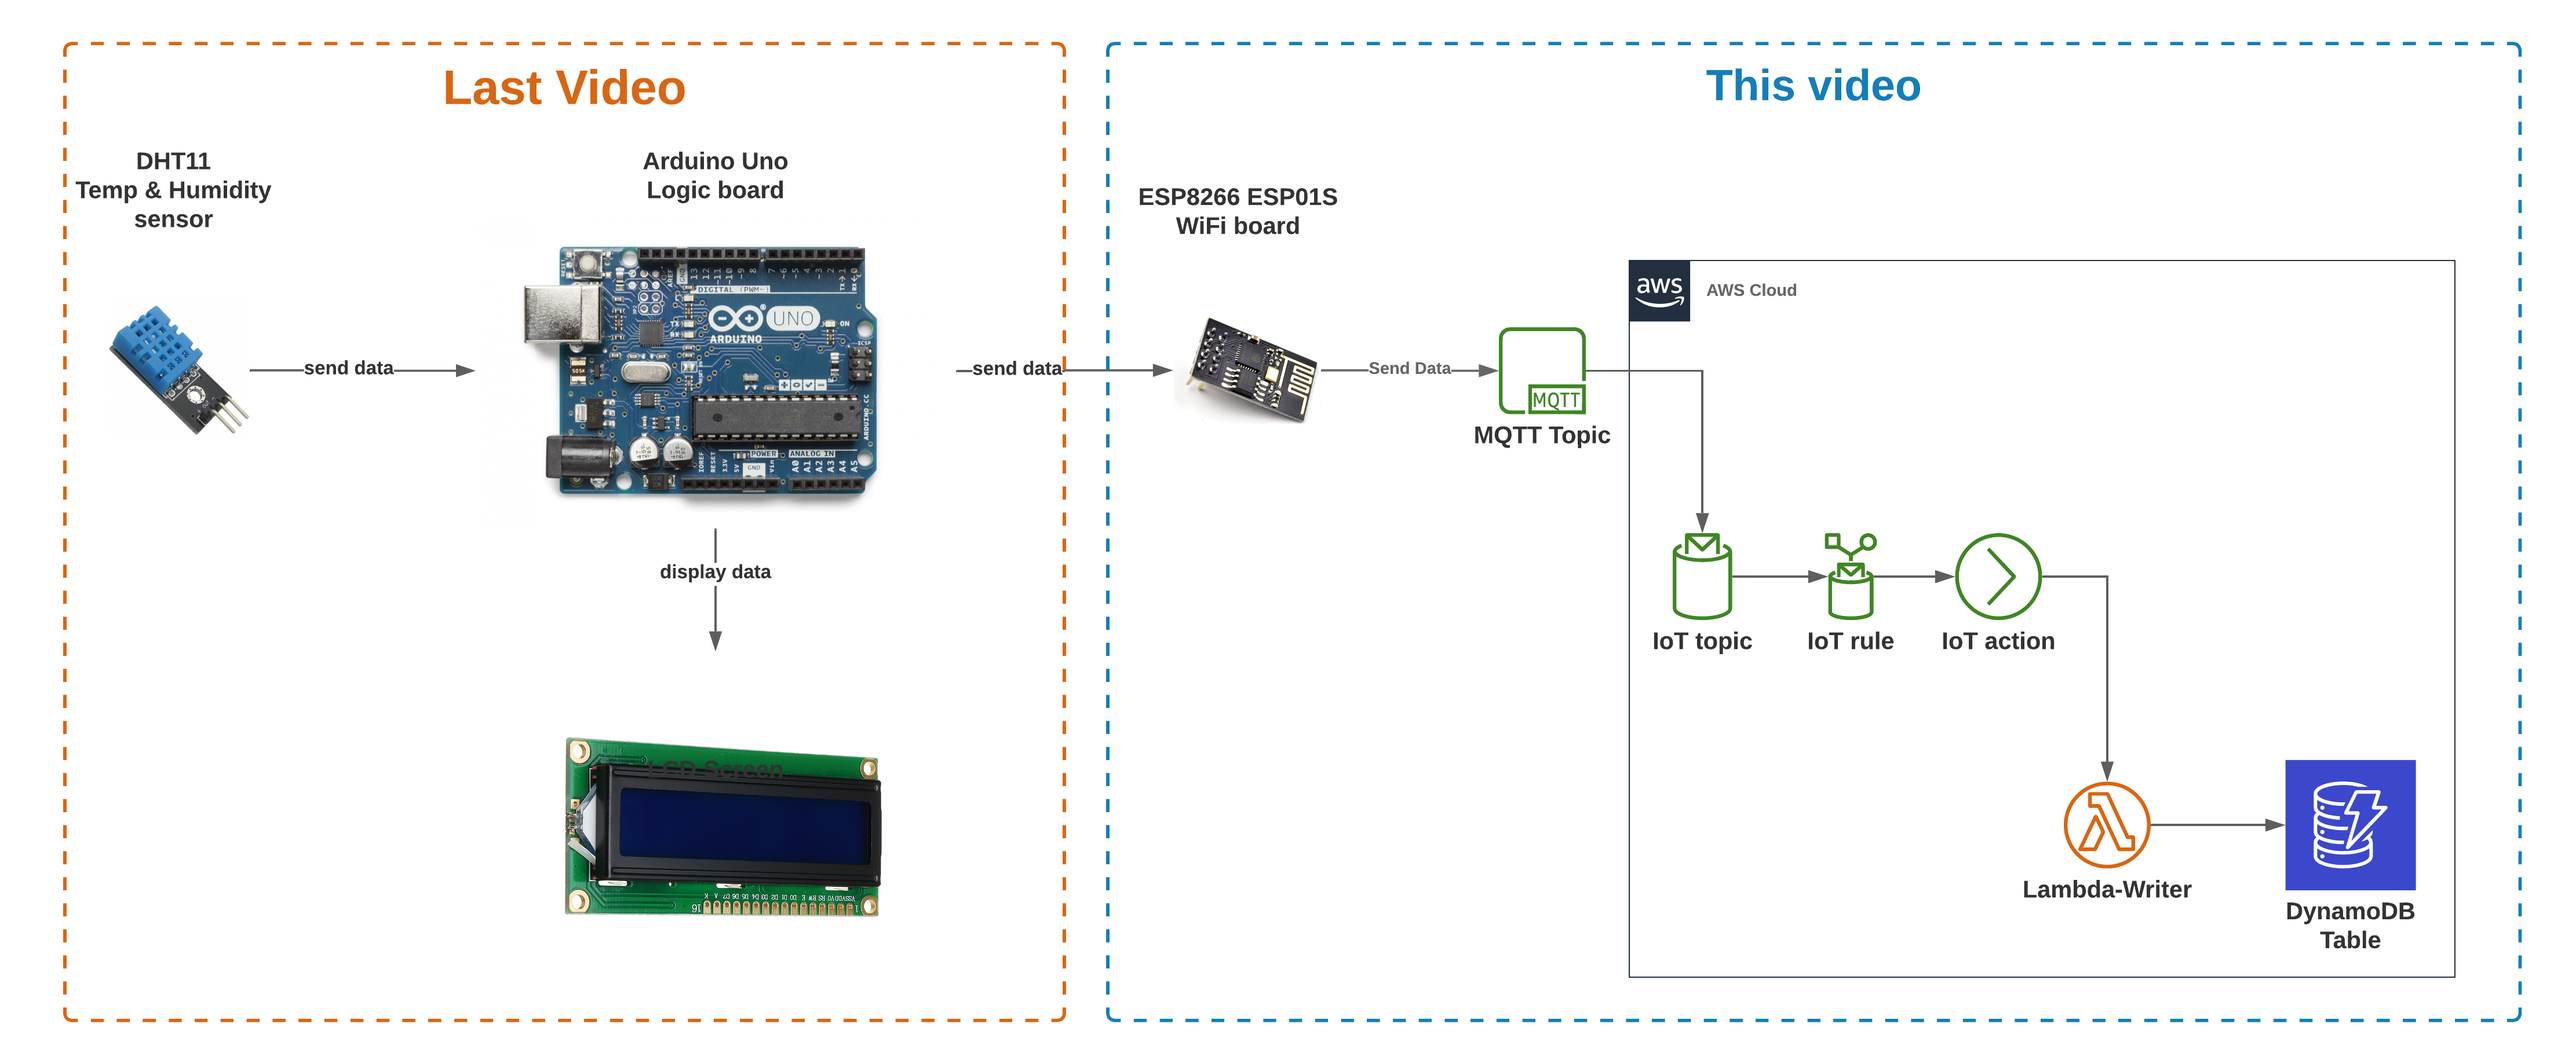
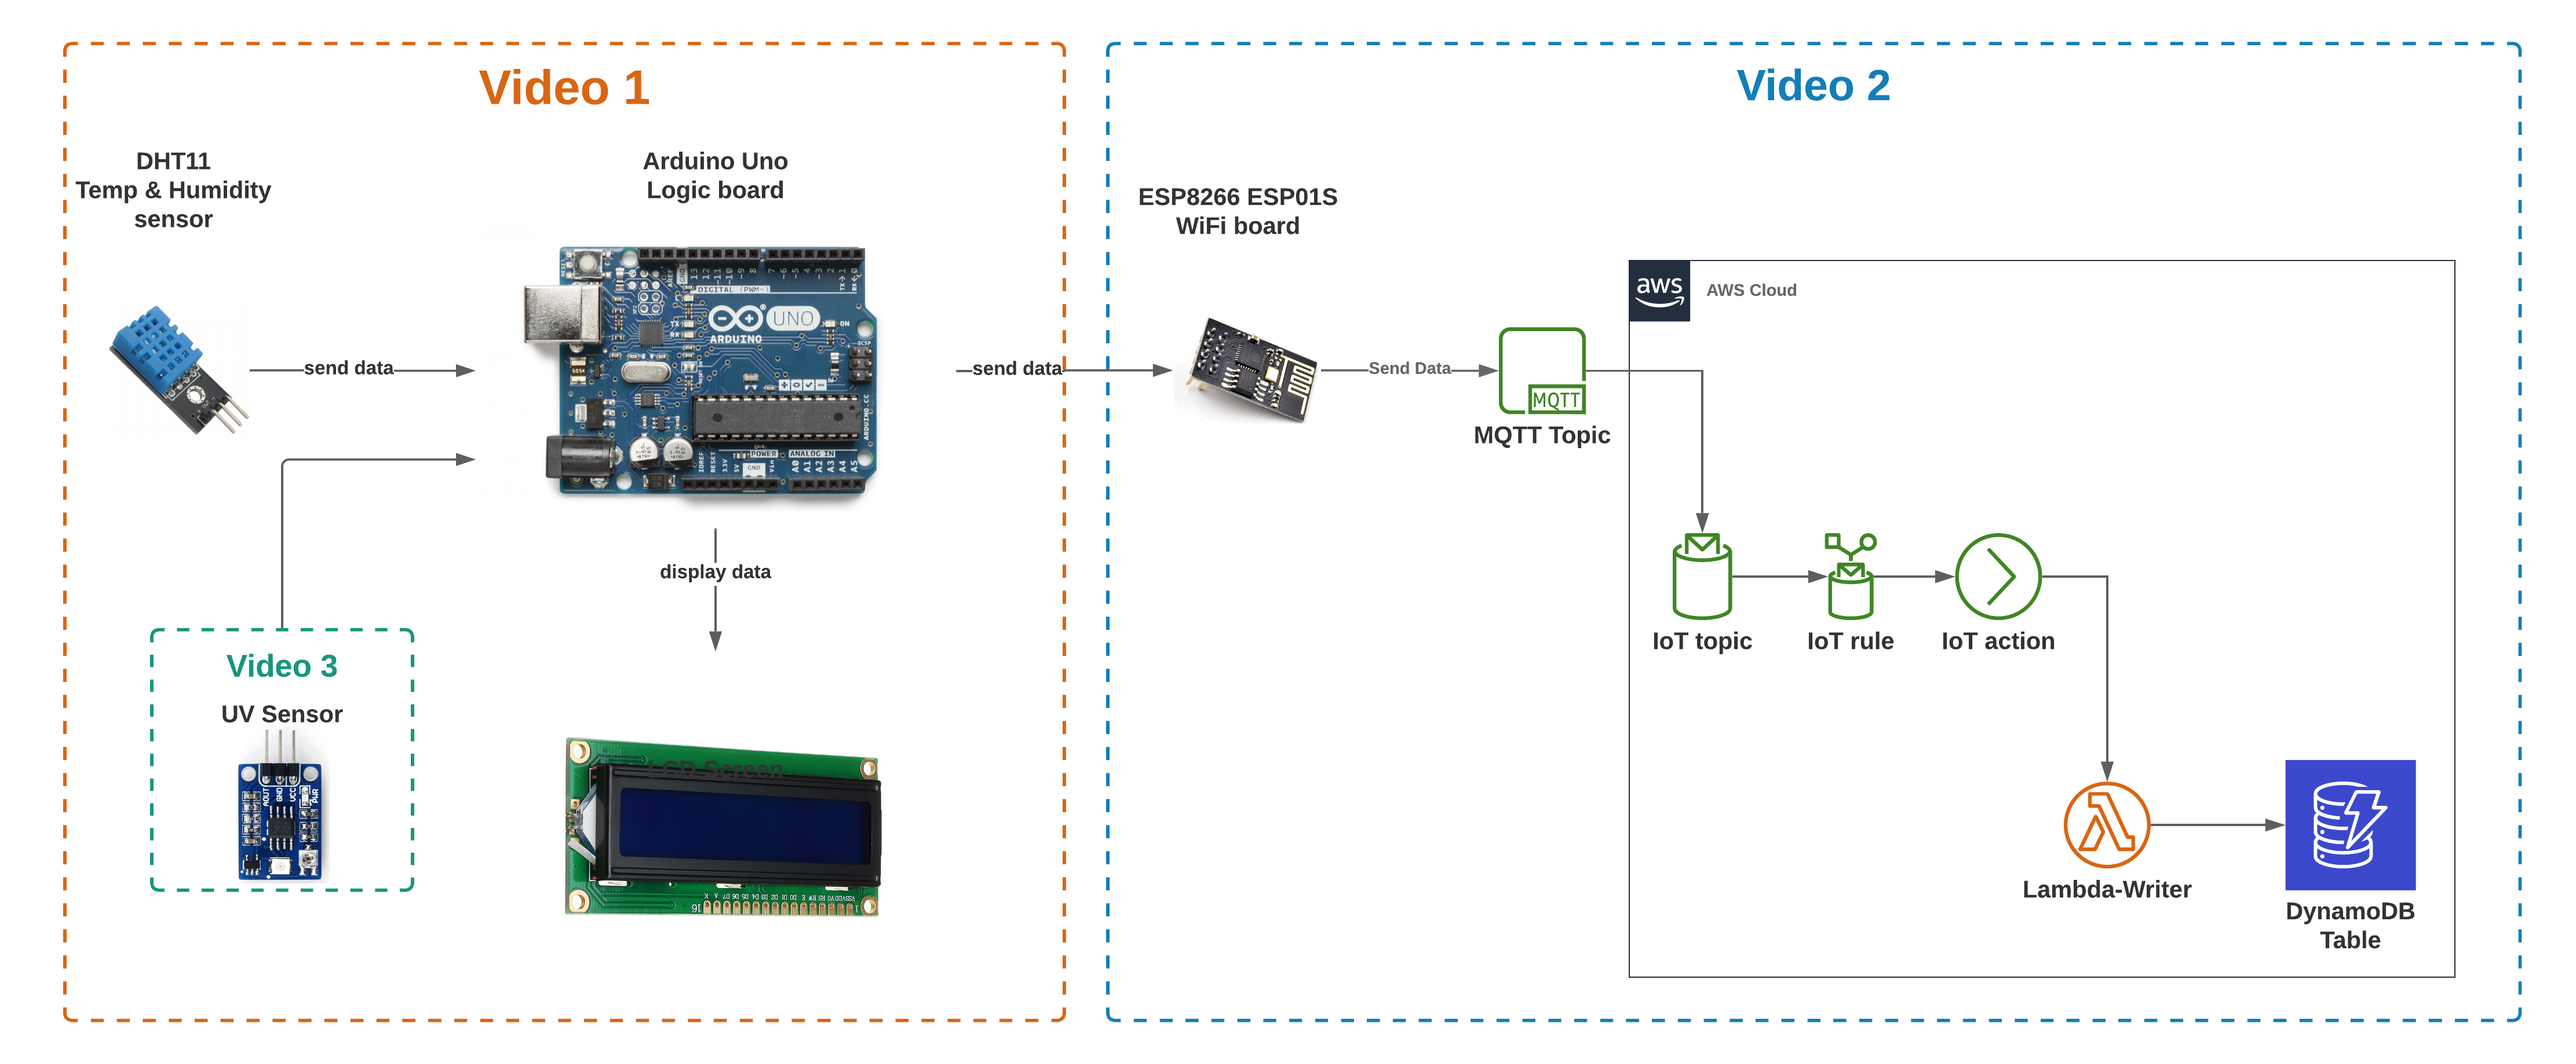
add more details about UV sensor

Changed region(s): [[0.0931, 0.6202, 0.1552, 0.8373], [0.1552, 0.062, 0.2794, 0.124], [0.6518, 0.062, 0.7449, 0.093]]

diff --git a/README.md b/README.md
@@ -1,4 +1,4 @@
-# Connected Weather Station with Arduino Uno board, DHT11 Sensor, LCD screen, ESP8266 WiFi module and AWS IOT
+# Connected Weather Station with Arduino Uno board, DHT11 Sensor, UV Sensor, LCD screen, ESP8266 WiFi module and AWS IOT
 
 PROJECT ARCHITECTURE
 --------------------------
@@ -14,6 +14,9 @@ This episode shows you how to use the [DHT11](https://amzn.to/2Qs9fcV) temperatu
 [**Video 2: Connecting the IoT Weather Station to AWS IoT using ESP8266**](https://youtu.be/aR3pAWPbU1Q)
 This episode builds on the previous one and continues forward by pushing the temperature & humidity data received through the [DHT11](https://amzn.to/2Qs9fcV) sensor, onto an AWS IoT account using an [ESP8266](https://amzn.to/3hqqWom) WiFi module.
 
+[**Video 3: Adding a UV sensor to the weather station**](https://youtu.be/aR3pAWPbU1Q)
+This episode builds on the previous two and show how to add a [UV](https://amzn.to/3jP4JCA) sensor to the weather station.
+
 
 ⚡ COMPONENTS AND SUPPLIES
 --------------------------
@@ -24,6 +27,7 @@ This episode builds on the previous one and continues forward by pushing the tem
 *   [LCD Screen](https://amzn.to/2FzJdT62Ehh2ru)
 *   [Breadboard](https://amzn.to/2Ei40tP) - [Jumper Wires](https://amzn.to/2Ehh2ru) - [Male to Male Jumper Wires + Tweezer](https://amzn.to/3jcf9eX)
 *   [DHT11 Temp & Humidity Sensor](https://amzn.to/2Qs9fcV)
+*   [UV Sensor GUVA-S12SD](https://amzn.to/3jP4JCA)
 *   [10k Ohm resistor](https://amzn.to/2Qo7vkW)
 *   [Hardware / Storage Cabinet Drawer](https://amzn.to/36ehDpB)
 *   [ESP8266 ESP-01 WiFi Module](https://amzn.to/30fUWNS)
